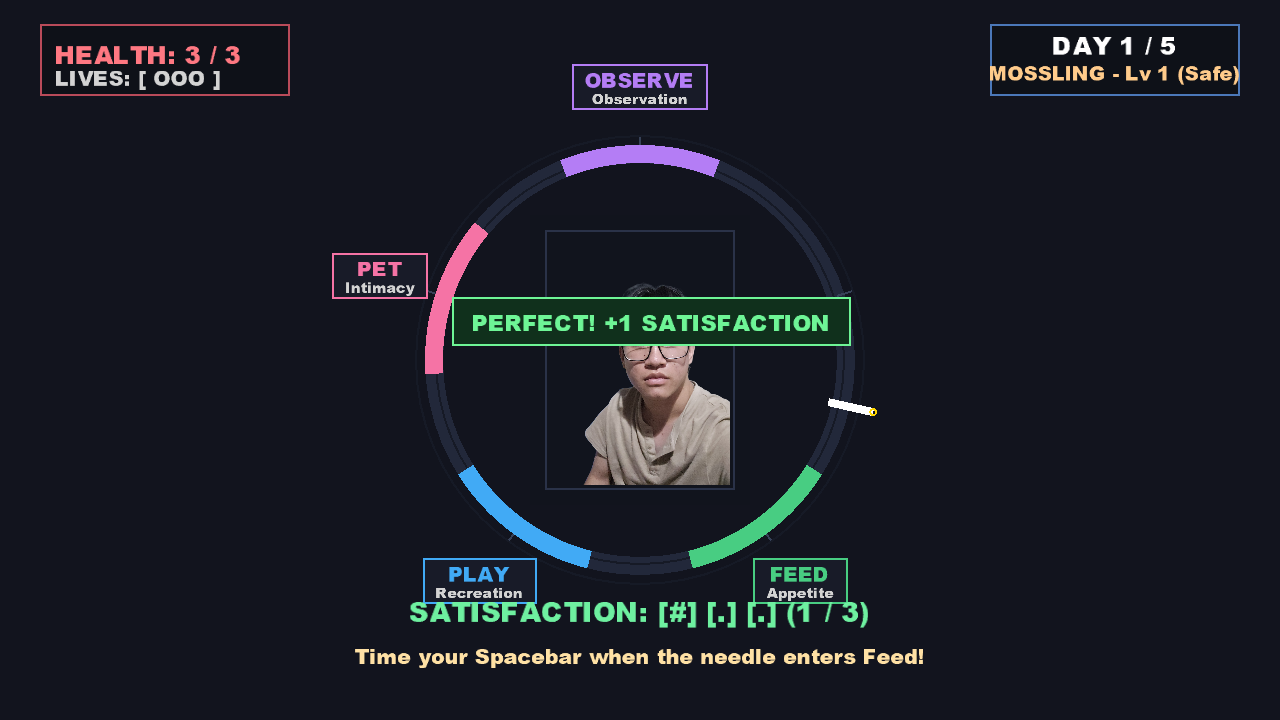
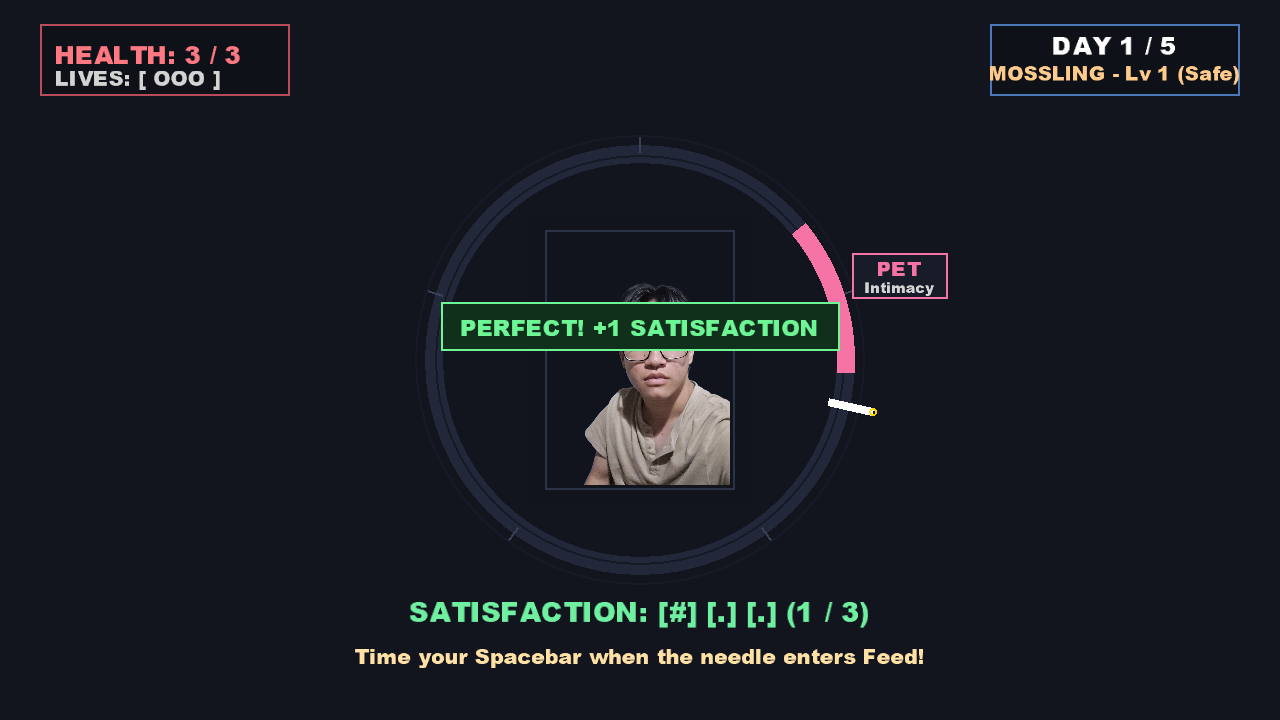
feat(qte): implement sequential staggered Care QTE actions and independent shrinking

diff --git a/CoPoject/BePal/Gameplay/ShrinkingQteZone.cs b/CoPoject/BePal/Gameplay/ShrinkingQteZone.cs
@@ -9,12 +9,47 @@ public sealed class QteSlot
     public int PositionIndex { get; set; }
     public CareAction? Action { get; set; }
     public float CenterAngle => ShrinkingQteZone.PresetAngles[PositionIndex];
+    public float AppearTime { get; set; }
+    public float Duration { get; set; }
+    public float InitialSpan { get; set; }
+    public float CurrentSpan { get; private set; }
 
-    public QteSlot(int positionIndex, CareAction? action = null)
+    public QteSlot(
+        int positionIndex,
+        CareAction? action = null,
+        float appearTime = 0f,
+        float duration = ShrinkingQteZone.DefaultSlotDuration,
+        float initialSpan = ShrinkingQteZone.DefaultInitialSpan)
     {
         PositionIndex = positionIndex;
         Action = action;
+        AppearTime = appearTime;
+        Duration = duration;
+        InitialSpan = initialSpan;
+        CurrentSpan = appearTime == 0f ? initialSpan : 0f;
     }
+
+    public void Update(float totalElapsed)
+    {
+        if (totalElapsed < AppearTime)
+        {
+            CurrentSpan = 0f;
+        }
+        else
+        {
+            float activeElapsed = totalElapsed - AppearTime;
+            if (activeElapsed >= Duration)
+            {
+                CurrentSpan = 0f;
+            }
+            else
+            {
+                CurrentSpan = MathF.Max(0f, InitialSpan * (1f - activeElapsed / Duration));
+            }
+        }
+    }
+
+    public bool IsFinished(float totalElapsed) => totalElapsed >= AppearTime + Duration;
 }
 
 /// <summary>
@@ -27,6 +62,8 @@ public sealed class ShrinkingQteZone
     public const float DefaultSpeed = 2.2f;
     public const float DefaultInitialSpan = MathF.PI / 3f;
     public const float DefaultDuration = 2.8f;
+    public const float DefaultStaggerInterval = 1.0f;
+    public const float DefaultSlotDuration = 2.5f;
 
     public static readonly float[] PresetAngles =
     {
@@ -45,10 +82,10 @@ public sealed class ShrinkingQteZone
     public int CurrentPositionIndex => Slots.Count > 0 ? Slots[0].PositionIndex : 0;
     public float CenterAngle => Slots.Count > 0 ? Slots[0].CenterAngle : PresetAngles[0];
     public float InitialSpan { get; set; }
-    public float CurrentSpan { get; private set; }
+    public float CurrentSpan => Slots.Count > 0 ? Slots[0].CurrentSpan : 0f;
     public float Duration { get; set; }
     public float ElapsedTime { get; private set; }
-    public bool IsExpired => ElapsedTime >= Duration || CurrentSpan <= 0f;
+    public bool IsExpired => ElapsedTime >= Duration || (Slots.Count > 0 && Slots.TrueForAll(s => s.IsFinished(ElapsedTime)));
 
     public ShrinkingQteZone(
         float speed = DefaultSpeed,
@@ -60,8 +97,7 @@ public sealed class ShrinkingQteZone
         InitialSpan = initialSpan;
         Duration = duration;
         _random = random ?? new Random();
-        CurrentSpan = initialSpan;
-        Slots.Add(new QteSlot(0));
+        Slots.Add(new QteSlot(0, null, 0f, duration, initialSpan));
     }
 
     public void Update(float dt)
@@ -70,18 +106,22 @@ public sealed class ShrinkingQteZone
         if (NeedleAngle < 0f) NeedleAngle += Tau;
 
         ElapsedTime = MathF.Min(Duration, ElapsedTime + dt);
-        CurrentSpan = MathF.Max(0f, InitialSpan * (1f - ElapsedTime / Duration));
+        for (int i = 0; i < Slots.Count; i++)
+        {
+            Slots[i].Update(ElapsedTime);
+        }
     }
 
     public QteSlot? GetHoveredSlot()
     {
-        if (CurrentSpan <= 0f) return null;
         for (int i = 0; i < Slots.Count; i++)
         {
-            float diff = MathF.Abs(Wrap(NeedleAngle, Slots[i].CenterAngle));
-            if (diff <= CurrentSpan / 2f)
+            var slot = Slots[i];
+            if (slot.CurrentSpan <= 0f) continue;
+            float diff = MathF.Abs(Wrap(NeedleAngle, slot.CenterAngle));
+            if (diff <= slot.CurrentSpan / 2f)
             {
-                return Slots[i];
+                return slot;
             }
         }
         return null;
@@ -106,15 +146,13 @@ public sealed class ShrinkingQteZone
         }
 
         ElapsedTime = 0f;
-        CurrentSpan = InitialSpan;
         Slots.Clear();
-        Slots.Add(new QteSlot(newIndex));
+        Slots.Add(new QteSlot(newIndex, null, 0f, Duration, InitialSpan));
     }
 
-    public void SpawnSlots(CareAction[] actions)
+    public void SpawnSlots(CareAction[] actions, float staggerInterval = DefaultStaggerInterval, float slotDuration = DefaultSlotDuration)
     {
         ElapsedTime = 0f;
-        CurrentSpan = InitialSpan;
         Slots.Clear();
 
         int[] positions = { 0, 1, 2, 3, 4 };
@@ -124,10 +162,20 @@ public sealed class ShrinkingQteZone
             (positions[i], positions[j]) = (positions[j], positions[i]);
         }
 
-        int count = Math.Min(actions.Length, PositionCount);
+        CareAction[] shuffledActions = (CareAction[])actions.Clone();
+        for (int i = shuffledActions.Length - 1; i > 0; i--)
+        {
+            int j = _random.Next(i + 1);
+            (shuffledActions[i], shuffledActions[j]) = (shuffledActions[j], shuffledActions[i]);
+        }
+
+        int count = Math.Min(shuffledActions.Length, PositionCount);
+        Duration = count > 0 ? (count - 1) * staggerInterval + slotDuration : DefaultDuration;
+
         for (int i = 0; i < count; i++)
         {
-            Slots.Add(new QteSlot(positions[i], actions[i]));
+            float appearTime = i * staggerInterval;
+            Slots.Add(new QteSlot(positions[i], shuffledActions[i], appearTime, slotDuration, InitialSpan));
         }
     }
 

diff --git a/CoPoject/BePal.Tests/Gameplay/ShrinkingQteZoneTests.cs b/CoPoject/BePal.Tests/Gameplay/ShrinkingQteZoneTests.cs
@@ -222,14 +222,23 @@ public class ShrinkingQteZoneTests
     }
 
     [Fact]
-    public void GetHoveredSlot_ReturnsMatchingAction_WhenNeedleInsideSlot()
+    public void GetHoveredSlot_ReturnsMatchingAction_WhenNeedleInsideActiveSlot()
     {
         var zone = new ShrinkingQteZone();
         CareAction[] actions = { CareAction.Feed, CareAction.Play, CareAction.Pet, CareAction.Observe };
         zone.SpawnSlots(actions);
 
+        // Advance to each slot's active window and test hit
+        float lastTime = 0f;
         foreach (var slot in zone.Slots)
         {
+            float dt = slot.AppearTime - lastTime;
+            if (dt > 0f)
+            {
+                zone.Update(dt);
+                lastTime = slot.AppearTime;
+            }
+
             zone.NeedleAngle = slot.CenterAngle;
             var hovered = zone.GetHoveredSlot();
             Assert.NotNull(hovered);
@@ -264,34 +273,90 @@ public class ShrinkingQteZoneTests
     }
 
     [Fact]
-    public void SpawnSlots_AllSlotsShrinkSynchronously()
+    public void SpawnSlots_StaggersAppearTimes_AtOneSecondIntervals()
     {
-        var zone = new ShrinkingQteZone(initialSpan: 1.0f, duration: 2.0f);
+        var zone = new ShrinkingQteZone();
         CareAction[] actions = { CareAction.Feed, CareAction.Play, CareAction.Pet, CareAction.Observe };
         zone.SpawnSlots(actions);
 
-        Assert.Equal(1.0f, zone.CurrentSpan);
-        zone.Update(1.0f); // Halfway through duration
+        Assert.Equal(4, zone.Slots.Count);
+        Assert.Equal(0.0f, zone.Slots[0].AppearTime);
+        Assert.Equal(1.0f, zone.Slots[1].AppearTime);
+        Assert.Equal(2.0f, zone.Slots[2].AppearTime);
+        Assert.Equal(3.0f, zone.Slots[3].AppearTime);
 
-        Assert.Equal(0.5f, zone.CurrentSpan, 2);
+        // Total duration: (4 - 1) * 1.0s + 2.5s = 5.5s
+        Assert.Equal(5.5f, zone.Duration);
+    }
 
-        // Verify each slot's effective hit boundary is governed by CurrentSpan / 2
-        float halfSpan = zone.CurrentSpan / 2f;
-        foreach (var slot in zone.Slots)
-        {
-            // Center is always inside
-            zone.NeedleAngle = slot.CenterAngle;
-            Assert.Equal(slot.Action, zone.GetHoveredSlot()?.Action);
+    [Fact]
+    public void Slot_IsInactiveBeforeAppearTime_AndActiveAfter()
+    {
+        var zone = new ShrinkingQteZone();
+        CareAction[] actions = { CareAction.Feed, CareAction.Play, CareAction.Pet, CareAction.Observe };
+        zone.SpawnSlots(actions);
 
-            // Just inside boundary
-            zone.NeedleAngle = (slot.CenterAngle + halfSpan * 0.9f) % ShrinkingQteZone.Tau;
-            Assert.Equal(slot.Action, zone.GetHoveredSlot()?.Action);
+        // At t = 0.5s: Slot 0 is active, Slot 1 has not appeared
+        zone.Update(0.5f);
+        Assert.True(zone.Slots[0].CurrentSpan > 0f);
+        Assert.Equal(0f, zone.Slots[1].CurrentSpan);
 
-            // Far outside boundary (e.g. opposite side of wheel)
-            zone.NeedleAngle = (slot.CenterAngle + MathF.PI) % ShrinkingQteZone.Tau;
-            var hovered = zone.GetHoveredSlot();
-            Assert.True(hovered == null || hovered != slot);
-        }
+        // At t = 1.0s: Slot 1 has now appeared at full span
+        zone.Update(0.5f);
+        Assert.Equal(zone.InitialSpan, zone.Slots[1].CurrentSpan);
+    }
+
+    [Fact]
+    public void Slot_ShrinksIndependently_OverConfiguredDuration()
+    {
+        var zone = new ShrinkingQteZone(initialSpan: 1.0f);
+        CareAction[] actions = { CareAction.Feed, CareAction.Play, CareAction.Pet, CareAction.Observe };
+        zone.SpawnSlots(actions, staggerInterval: 1.0f, slotDuration: 2.0f);
+
+        // Slot 0 appears at 0s, expires at 2s
+        // Slot 1 appears at 1s, expires at 3s
+        zone.Update(1.0f); // t = 1.0s
+        Assert.Equal(0.5f, zone.Slots[0].CurrentSpan, 2); // halfway
+        Assert.Equal(1.0f, zone.Slots[1].CurrentSpan, 2); // just appeared
+
+        zone.Update(1.0f); // t = 2.0s
+        Assert.Equal(0f, zone.Slots[0].CurrentSpan); // expired
+        Assert.True(zone.Slots[0].IsFinished(2.0f));
+        Assert.Equal(0.5f, zone.Slots[1].CurrentSpan, 2); // halfway
+    }
+
+    [Fact]
+    public void GetHoveredSlot_ReturnsNull_BeforeSlotAppears()
+    {
+        var zone = new ShrinkingQteZone();
+        CareAction[] actions = { CareAction.Feed, CareAction.Play, CareAction.Pet, CareAction.Observe };
+        zone.SpawnSlots(actions);
+
+        // At t = 0.5s, Slot 1 has appearTime = 1.0s
+        zone.Update(0.5f);
+        zone.NeedleAngle = zone.Slots[1].CenterAngle;
+
+        // Even though needle points exactly at Slot 1's position, Slot 1 is not active yet
+        Assert.Null(zone.GetHoveredSlot());
+        Assert.False(zone.IsNeedleInsideZone());
+    }
+
+    [Fact]
+    public void Zone_ExpiresOnlyAfterAllStaggeredSlotsFinish()
+    {
+        var zone = new ShrinkingQteZone();
+        CareAction[] actions = { CareAction.Feed, CareAction.Play, CareAction.Pet, CareAction.Observe };
+        zone.SpawnSlots(actions, staggerInterval: 1.0f, slotDuration: 2.5f);
+        // Total duration = 3 * 1.0 + 2.5 = 5.5s
+
+        zone.Update(2.5f); // Slot 0 expires, but Slots 1-3 still active
+        Assert.False(zone.IsExpired);
+
+        zone.Update(2.0f); // t = 4.5s: Slot 2 expires, Slot 3 still has 1.0s
+        Assert.False(zone.IsExpired);
+
+        zone.Update(1.0f); // t = 5.5s: All slots finished
+        Assert.True(zone.IsExpired);
     }
 
     [Fact]

diff --git a/CoPoject/BePal/Screens/CareQteScreen.cs b/CoPoject/BePal/Screens/CareQteScreen.cs
@@ -182,11 +182,10 @@ public sealed class CareQteScreen : IScreen
 
         // 3. Dynamic Shrinking Care Zone Arcs & Scrap Badges for All Active Slots
         QteSlot? hoveredSlot = _zone.GetHoveredSlot();
-        float span = _zone.CurrentSpan;
 
         foreach (var slot in _zone.Slots)
         {
-            if (!slot.Action.HasValue) continue;
+            if (!slot.Action.HasValue || slot.CurrentSpan <= 0f) continue;
 
             CareActionDescriptor desc = GetDescriptor(slot.Action.Value);
             float centerA = slot.CenterAngle;
@@ -194,10 +193,7 @@ public sealed class CareQteScreen : IScreen
             Color baseCol = desc.Color;
             Color arcCol = isHovered ? Color.Lerp(baseCol, Color.White, 0.45f) : baseCol;
 
-            if (span > 0f)
-            {
-                spriteBatch.DrawArc(c, trackRadius, centerA - span / 2f, span, 32, arcCol, isHovered ? 24f : 18f);
-            }
+            spriteBatch.DrawArc(c, trackRadius, centerA - slot.CurrentSpan / 2f, slot.CurrentSpan, 32, arcCol, isHovered ? 24f : 18f);
 
             Vector2 badgePos = c + Dir(centerA) * (trackRadius + 58f);
             _context.DrawScrapBadge(spriteBatch, badgePos, desc.Action.ToString().ToUpperInvariant(), desc.Need, arcCol, Color.White, isHovered);
